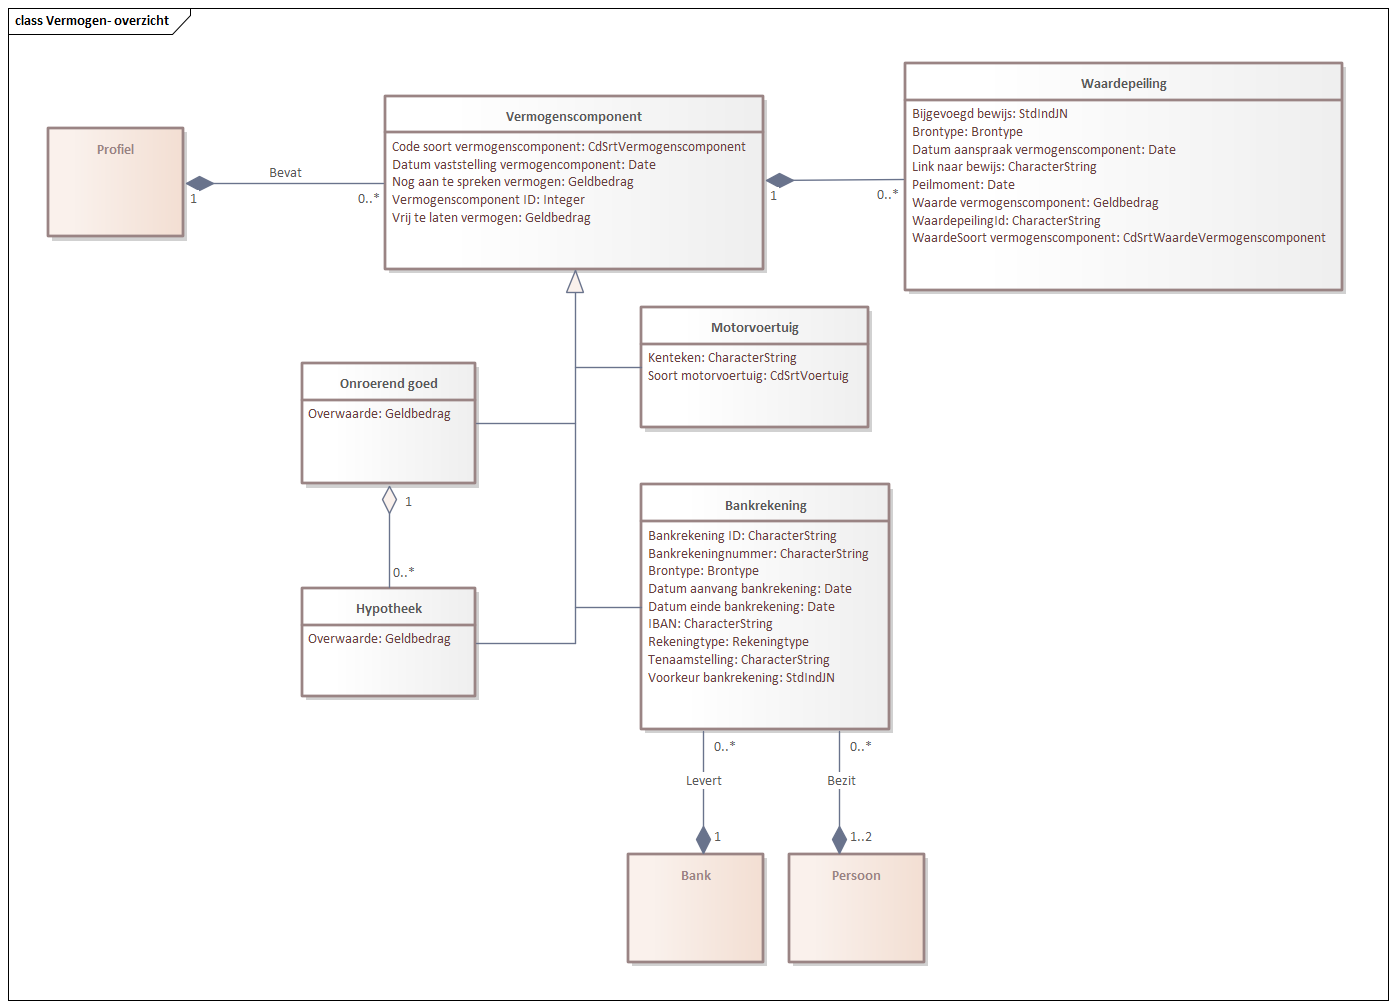
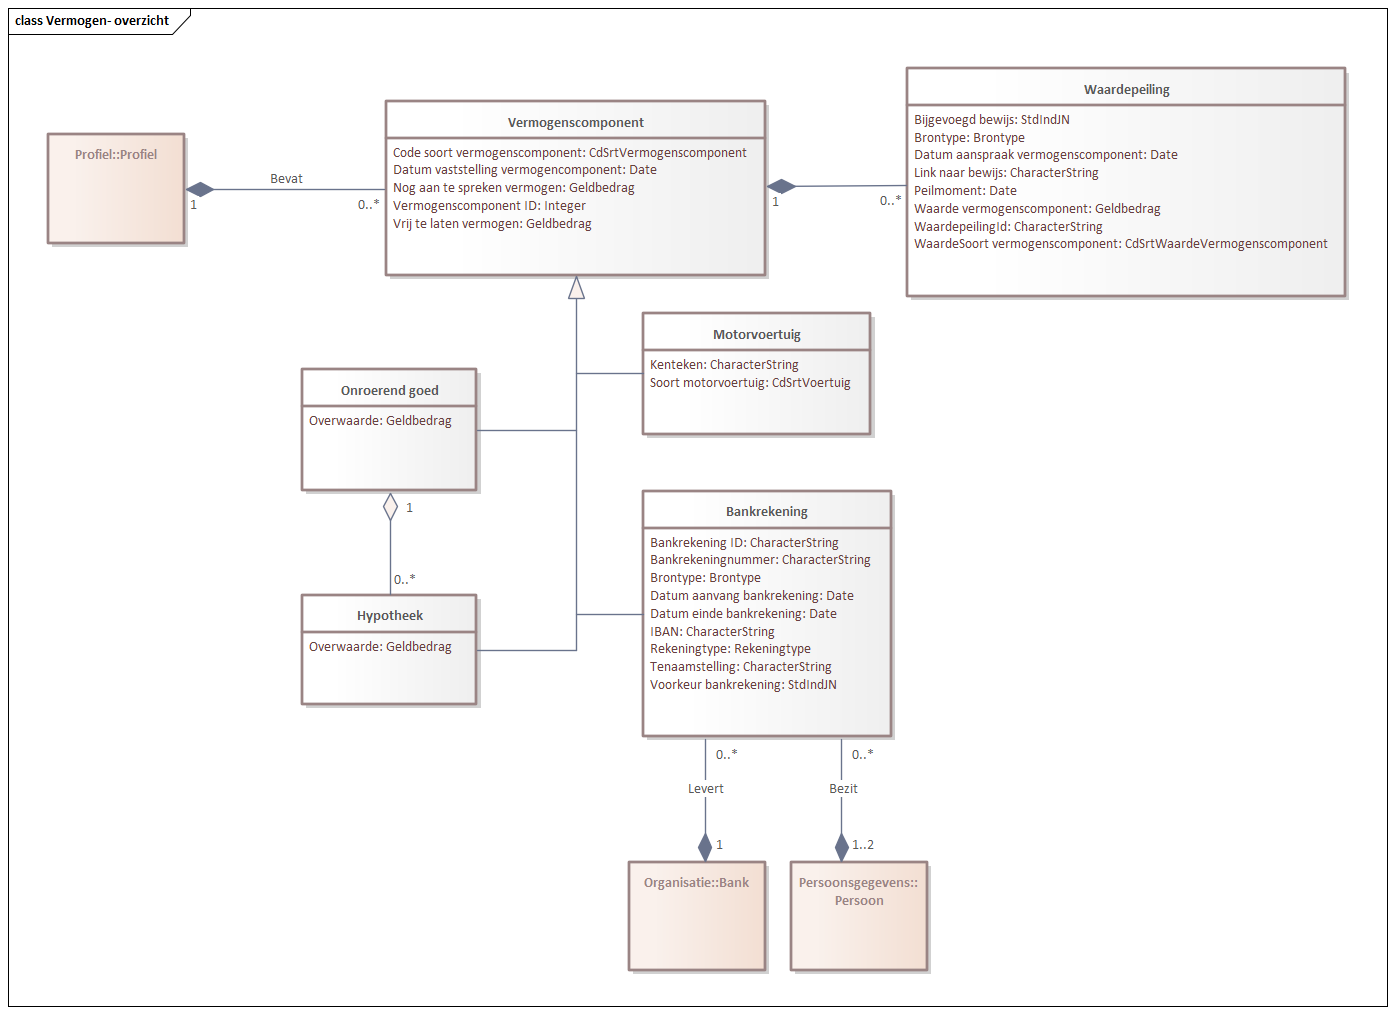
a

diff --git a/vermogen.html b/vermogen.html
@@ -1,6 +1,7 @@
          <h2>Gegevensdefinitie</h2>
-            <!--SIM-InkomenModellen-1.0-1-20230101-20250117-135929 imvertor 4.0.0--></p>
-         <div class="imageinfo overview"><img src="Images/EAID_B217F942_4C28_41b1_94E5_C0DE6A42396B.png" usemap="#imagemap-EAID_B217F942_4C28_41b1_94E5_C0DE6A42396B" alt="Diagram: Vermogen- overzicht"><map name="imagemap-EAID_B217F942_4C28_41b1_94E5_C0DE6A42396B"><area shape="rect" alt="Bank" coords="628,854,764,963" href="#global_class_Vermogen_Bank"><area shape="rect" alt="Persoon" coords="789,854,925,963" href="#global_class_Vermogen_Persoon"><area shape="rect" alt="Profiel" coords="48,128,184,237" href="#global_class_Vermogen_Profiel"><area shape="rect" alt="Waardepeiling" coords="905,63,1343,291" href="#global_class_Vermogen_Waardepeiling"><area shape="rect" alt="Vermogenscomponent" coords="385,96,764,270" href="#global_class_Vermogen_Vermogenscomponent"><area shape="rect" alt="Onroerend goed" coords="302,363,476,484" href="#global_class_Vermogen_Onroerendgoed"><area shape="rect" alt="Hypotheek" coords="302,588,476,697" href="#global_class_Vermogen_Hypotheek"><area shape="rect" alt="Bankrekening" coords="641,484,890,730" href="#global_class_Vermogen_Bankrekening"><area shape="rect" alt="Motorvoertuig" coords="641,307,869,428" href="#global_class_Vermogen_Motorvoertuig"></map><p><b>Vermogen- overzicht</b>
+         <p><b>Deze tekst is normatief.</b>
+            <!--SIM-InkomenModellen-1.0-1-20230101-20250616-112657 imvertor 4.0.0--></p>
+         <div class="imageinfo overview"><img src="Images/EAID_B217F942_4C28_41b1_94E5_C0DE6A42396B.png" usemap="#imagemap-EAID_B217F942_4C28_41b1_94E5_C0DE6A42396B" alt="Diagram: Vermogen- overzicht"><map name="imagemap-EAID_B217F942_4C28_41b1_94E5_C0DE6A42396B"><area shape="rect" alt="Organisatie::Bank" coords="629,862,766,971" href="#global_class_Vermogen_OrganisatieBank"><area shape="rect" alt="Persoonsgegevens::Persoon" coords="791,862,928,971" href="#global_class_Vermogen_PersoonsgegevensPersoon"><area shape="rect" alt="Profiel::Profiel" coords="48,134,185,244" href="#global_class_Vermogen_ProfielProfiel"><area shape="rect" alt="Waardepeiling" coords="907,68,1346,297" href="#global_class_Vermogen_Waardepeiling"><area shape="rect" alt="Vermogenscomponent" coords="386,101,766,276" href="#global_class_Vermogen_Vermogenscomponent"><area shape="rect" alt="Onroerend goed" coords="302,369,477,491" href="#global_class_Vermogen_Onroerendgoed"><area shape="rect" alt="Hypotheek" coords="302,595,477,705" href="#global_class_Vermogen_Hypotheek"><area shape="rect" alt="Bankrekening" coords="643,491,892,737" href="#global_class_Vermogen_Bankrekening"><area shape="rect" alt="Motorvoertuig" coords="643,313,871,435" href="#global_class_Vermogen_Motorvoertuig"></map><p><b>Vermogen- overzicht</b>
                
                <p></p>
                </p>
@@ -185,7 +186,7 @@
                            <a class="link" href="#detail_association_Vermogen_Bankrekening_Levert">Levert</a>
                            
                            
-                           <a class="link" href="#global_class_Vermogen_Bank">Bank</a>
+                           <a class="link" href="#global_class_Vermogen_OrganisatieBank">Organisatie::Bank</a>
                            
                            [ 1 ]
                            </td>
@@ -199,7 +200,7 @@
                            <a class="link" href="#detail_association_Vermogen_Bankrekening_Bezit">Bezit</a>
                            
                            
-                           <a class="link" href="#global_class_Vermogen_Persoon">Persoon</a>
+                           <a class="link" href="#global_class_Vermogen_PersoonsgegevensPersoon">Persoonsgegevens::Persoon</a>
                            
                            [ 1 .. 2 ]
                            </td>
@@ -364,7 +365,7 @@
                            <a class="link" href="#detail_association_Vermogen_Vermogenscomponent_Bevat">Bevat</a>
                            
                            
-                           <a class="link" href="#global_class_Vermogen_Profiel">Profiel</a>
+                           <a class="link" href="#global_class_Vermogen_ProfielProfiel">Profiel::Profiel</a>
                            
                            [ 1 ]
                            </td>
@@ -644,8 +645,8 @@
                
                </section>
             
-            <section id="global_class_Vermogen_Bank">
-               <h4>   Bank</h4>
+            <section id="global_class_Vermogen_OrganisatieBank">
+               <h4>   Organisatie::Bank</h4>
                
                <table style="width: 100%;">
                   <colgroup style="width: 30%;"></colgroup>
@@ -653,7 +654,7 @@
                   <tbody>
                      <tr>
                         <th>Naam</th>
-                        <td>Bank</td>
+                        <td>Organisatie::Bank</td>
                      </tr>
                      <tr>
                         <th>Herkomst</th>
@@ -701,7 +702,7 @@
                            
                            <a class="link" href="#detail_association_Vermogen_Bankrekening_Levert">Levert</a>
                            
-                           Bank
+                           Organisatie::Bank
                            [ 1 ]
                            </td>
                         <td></td>
@@ -712,8 +713,8 @@
                
                </section>
             
-            <section id="global_class_Vermogen_Profiel">
-               <h4>   Profiel</h4>
+            <section id="global_class_Vermogen_ProfielProfiel">
+               <h4>   Profiel::Profiel</h4>
                
                <table style="width: 100%;">
                   <colgroup style="width: 30%;"></colgroup>
@@ -721,7 +722,7 @@
                   <tbody>
                      <tr>
                         <th>Naam</th>
-                        <td>Profiel</td>
+                        <td>Profiel::Profiel</td>
                      </tr>
                      <tr>
                         <th>Herkomst</th>
@@ -769,7 +770,7 @@
                            
                            <a class="link" href="#detail_association_Vermogen_Vermogenscomponent_Bevat">Bevat</a>
                            
-                           Profiel
+                           Profiel::Profiel
                            [ 1 ]
                            </td>
                         <td></td>
@@ -780,8 +781,8 @@
                
                </section>
             
-            <section id="global_class_Vermogen_Persoon">
-               <h4>   Persoon</h4>
+            <section id="global_class_Vermogen_PersoonsgegevensPersoon">
+               <h4>   Persoonsgegevens::Persoon</h4>
                
                <table style="width: 100%;">
                   <colgroup style="width: 30%;"></colgroup>
@@ -789,7 +790,7 @@
                   <tbody>
                      <tr>
                         <th>Naam</th>
-                        <td>Persoon</td>
+                        <td>Persoonsgegevens::Persoon</td>
                      </tr>
                      <tr>
                         <th>Herkomst</th>
@@ -837,7 +838,7 @@
                            
                            <a class="link" href="#detail_association_Vermogen_Bankrekening_Bezit">Bezit</a>
                            
-                           Persoon
+                           Persoonsgegevens::Persoon
                            [ 1 .. 2 ]
                            </td>
                         <td></td>
@@ -1126,21 +1127,21 @@
                         </tr>
                         <tr>
                            <td>
-                              <a class="link" href="#detail_attribute_Vermogen_Geldbedrag_Som">Som</a>
-                              </td>
-                           <td></td>
-                           <td>
-                              <a class="external-link" href="https://docs.geostandaarden.nl/mim/def-st-mim-20220217/#primitive-datatypes">Real</a>
-                              </td>
-                           <td>1</td>
-                        </tr>
-                        <tr>
-                           <td>
                               <a class="link" href="#detail_attribute_Vermogen_Geldbedrag_Valuta">Valuta</a>
                               </td>
                            <td></td>
                            <td>
                               <a class="external-link" href="https://docs.geostandaarden.nl/mim/def-st-mim-20220217/#primitive-datatypes">CharacterString</a>
+                              </td>
+                           <td>1</td>
+                        </tr>
+                        <tr>
+                           <td>
+                              <a class="link" href="#detail_attribute_Vermogen_Geldbedrag_Som">Som</a>
+                              </td>
+                           <td></td>
+                           <td>
+                              <a class="external-link" href="https://docs.geostandaarden.nl/mim/def-st-mim-20220217/#primitive-datatypes">Real</a>
                               </td>
                            <td>1</td>
                         </tr>
@@ -1819,7 +1820,7 @@
                            <tr>
                               <th>Gerelateerd objecttype</th>
                               <td>
-                                 <a class="link" href="#global_class_Vermogen_Bank">Bank</a>
+                                 <a class="link" href="#global_class_Vermogen_OrganisatieBank">Organisatie::Bank</a>
                                  </td>
                            </tr>
                            <tr>
@@ -1881,7 +1882,7 @@
                            <tr>
                               <th>Gerelateerd objecttype</th>
                               <td>
-                                 <a class="link" href="#global_class_Vermogen_Persoon">Persoon</a>
+                                 <a class="link" href="#global_class_Vermogen_PersoonsgegevensPersoon">Persoonsgegevens::Persoon</a>
                                  </td>
                            </tr>
                            <tr>
@@ -2334,7 +2335,7 @@
                            <tr>
                               <th>Gerelateerd objecttype</th>
                               <td>
-                                 <a class="link" href="#global_class_Vermogen_Profiel">Profiel</a>
+                                 <a class="link" href="#global_class_Vermogen_ProfielProfiel">Profiel::Profiel</a>
                                  </td>
                            </tr>
                            <tr>
@@ -3254,47 +3255,6 @@
                <section id="detail_class_Vermogen_Geldbedrag">
                   <h5>Gestructureerd datatype   Geldbedrag</h5>
                   
-                  <section id="detail_attribute_Vermogen_Geldbedrag_Som">
-                     <h6>Data element  <a href="#global_class_Vermogen_Geldbedrag">Geldbedrag</a> Som</h6>
-                     
-                     <table style="width: 100%;">
-                        <colgroup style="width: 30%;"></colgroup>
-                        <colgroup style="width: 70%;"></colgroup>
-                        <tbody>
-                           <tr>
-                              <th>Naam</th>
-                              <td>Som</td>
-                           </tr>
-                           <tr>
-                              <th>Herkomst</th>
-                              <td> </td>
-                           </tr>
-                           <tr>
-                              <th>Definitie</th>
-                              <td> </td>
-                           </tr>
-                           <tr>
-                              <th>Herkomst definitie</th>
-                              <td> </td>
-                           </tr>
-                           <tr>
-                              <th>Indicatie kardinaliteit</th>
-                              <td>1</td>
-                           </tr>
-                           <tr>
-                              <th>Formaat</th>
-                              <td>
-                                 <a class="external-link" href="https://docs.geostandaarden.nl/mim/def-st-mim-20220217/#primitive-datatypes">Real</a>
-                                 </td>
-                           </tr>
-                           <tr>
-                              <th>Patroon</th>
-                              <td> </td>
-                           </tr>
-                        </tbody>
-                     </table>
-                     </section>
-                  
                   <section id="detail_attribute_Vermogen_Geldbedrag_Valuta">
                      <h6>Data element  <a href="#global_class_Vermogen_Geldbedrag">Geldbedrag</a> Valuta</h6>
                      
@@ -3326,6 +3286,47 @@
                               <th>Formaat</th>
                               <td>
                                  <a class="external-link" href="https://docs.geostandaarden.nl/mim/def-st-mim-20220217/#primitive-datatypes">CharacterString</a>
+                                 </td>
+                           </tr>
+                           <tr>
+                              <th>Patroon</th>
+                              <td> </td>
+                           </tr>
+                        </tbody>
+                     </table>
+                     </section>
+                  
+                  <section id="detail_attribute_Vermogen_Geldbedrag_Som">
+                     <h6>Data element  <a href="#global_class_Vermogen_Geldbedrag">Geldbedrag</a> Som</h6>
+                     
+                     <table style="width: 100%;">
+                        <colgroup style="width: 30%;"></colgroup>
+                        <colgroup style="width: 70%;"></colgroup>
+                        <tbody>
+                           <tr>
+                              <th>Naam</th>
+                              <td>Som</td>
+                           </tr>
+                           <tr>
+                              <th>Herkomst</th>
+                              <td> </td>
+                           </tr>
+                           <tr>
+                              <th>Definitie</th>
+                              <td> </td>
+                           </tr>
+                           <tr>
+                              <th>Herkomst definitie</th>
+                              <td> </td>
+                           </tr>
+                           <tr>
+                              <th>Indicatie kardinaliteit</th>
+                              <td>1</td>
+                           </tr>
+                           <tr>
+                              <th>Formaat</th>
+                              <td>
+                                 <a class="external-link" href="https://docs.geostandaarden.nl/mim/def-st-mim-20220217/#primitive-datatypes">Real</a>
                                  </td>
                            </tr>
                            <tr>

diff --git a/index.html b/index.html
@@ -5,7 +5,7 @@
   <meta content="text/html; charset=utf-8" http-equiv="content-type">
   <meta name="viewport" content="width=device-width, initial-scale=1, shrink-to-fit=no">
   <script src="https://cdn.jsdelivr.net/gh/digitalbazaar/respec-mermaid@1.0.1/dist/main.js" class="remove"></script>
-  <script src="https://vng-realisatie.github.io/VNG-R-Respec-Organization-configurations/js/organisation-config.js" class="remove"></script>
+  <script src="https://vng-realisatie.github.io/Ontologie-Inkomen/js/organisation-config.js" class="remove"></script>
   <script src="js/config.js" class="remove"></script>
   <script class="remove"> respecConfig = {...organisationConfig, ...respecConfig}</script>
   <script>document.title = respecConfig.title</script>
@@ -25,9 +25,6 @@
   <section id="abstract" data-include-format="markdown" data-include="abstract.md"></section>
   <section id="sotd"></section><!-- Wordt automatisch ingevuld met een standaard tekst afhankelijk van de waarde van de property 'specStatus'. -->
   <section id="cat" data-include-format="html" data-include="vermogen.html"></section>
-  <section id='conformance'></section>
-  <section id='tof'></section>
-  <section id="index"></section>
 </body>
 
 

diff --git a/js/config.js b/js/config.js
@@ -9,9 +9,10 @@ let respecConfig = {
   specType: "im",
   
   // Zie de globale property 'localizationStrings/nl' voor de lijst met toegestane specificatie-statussen
-  specStatus: "IO",
-  publishDate: "2024-10-04",
-  publishVersion: "1.0.0",
+  specStatus: "cv",
+  publishDate: "2025-06-01",
+  publishVersion: "1.2.0",
+  labelColor: "#000000",
 
   // Zie de globale property 'localizationStrings/nl' voor de lijst met toegestane maturities
   //previousMaturity: "IO",
